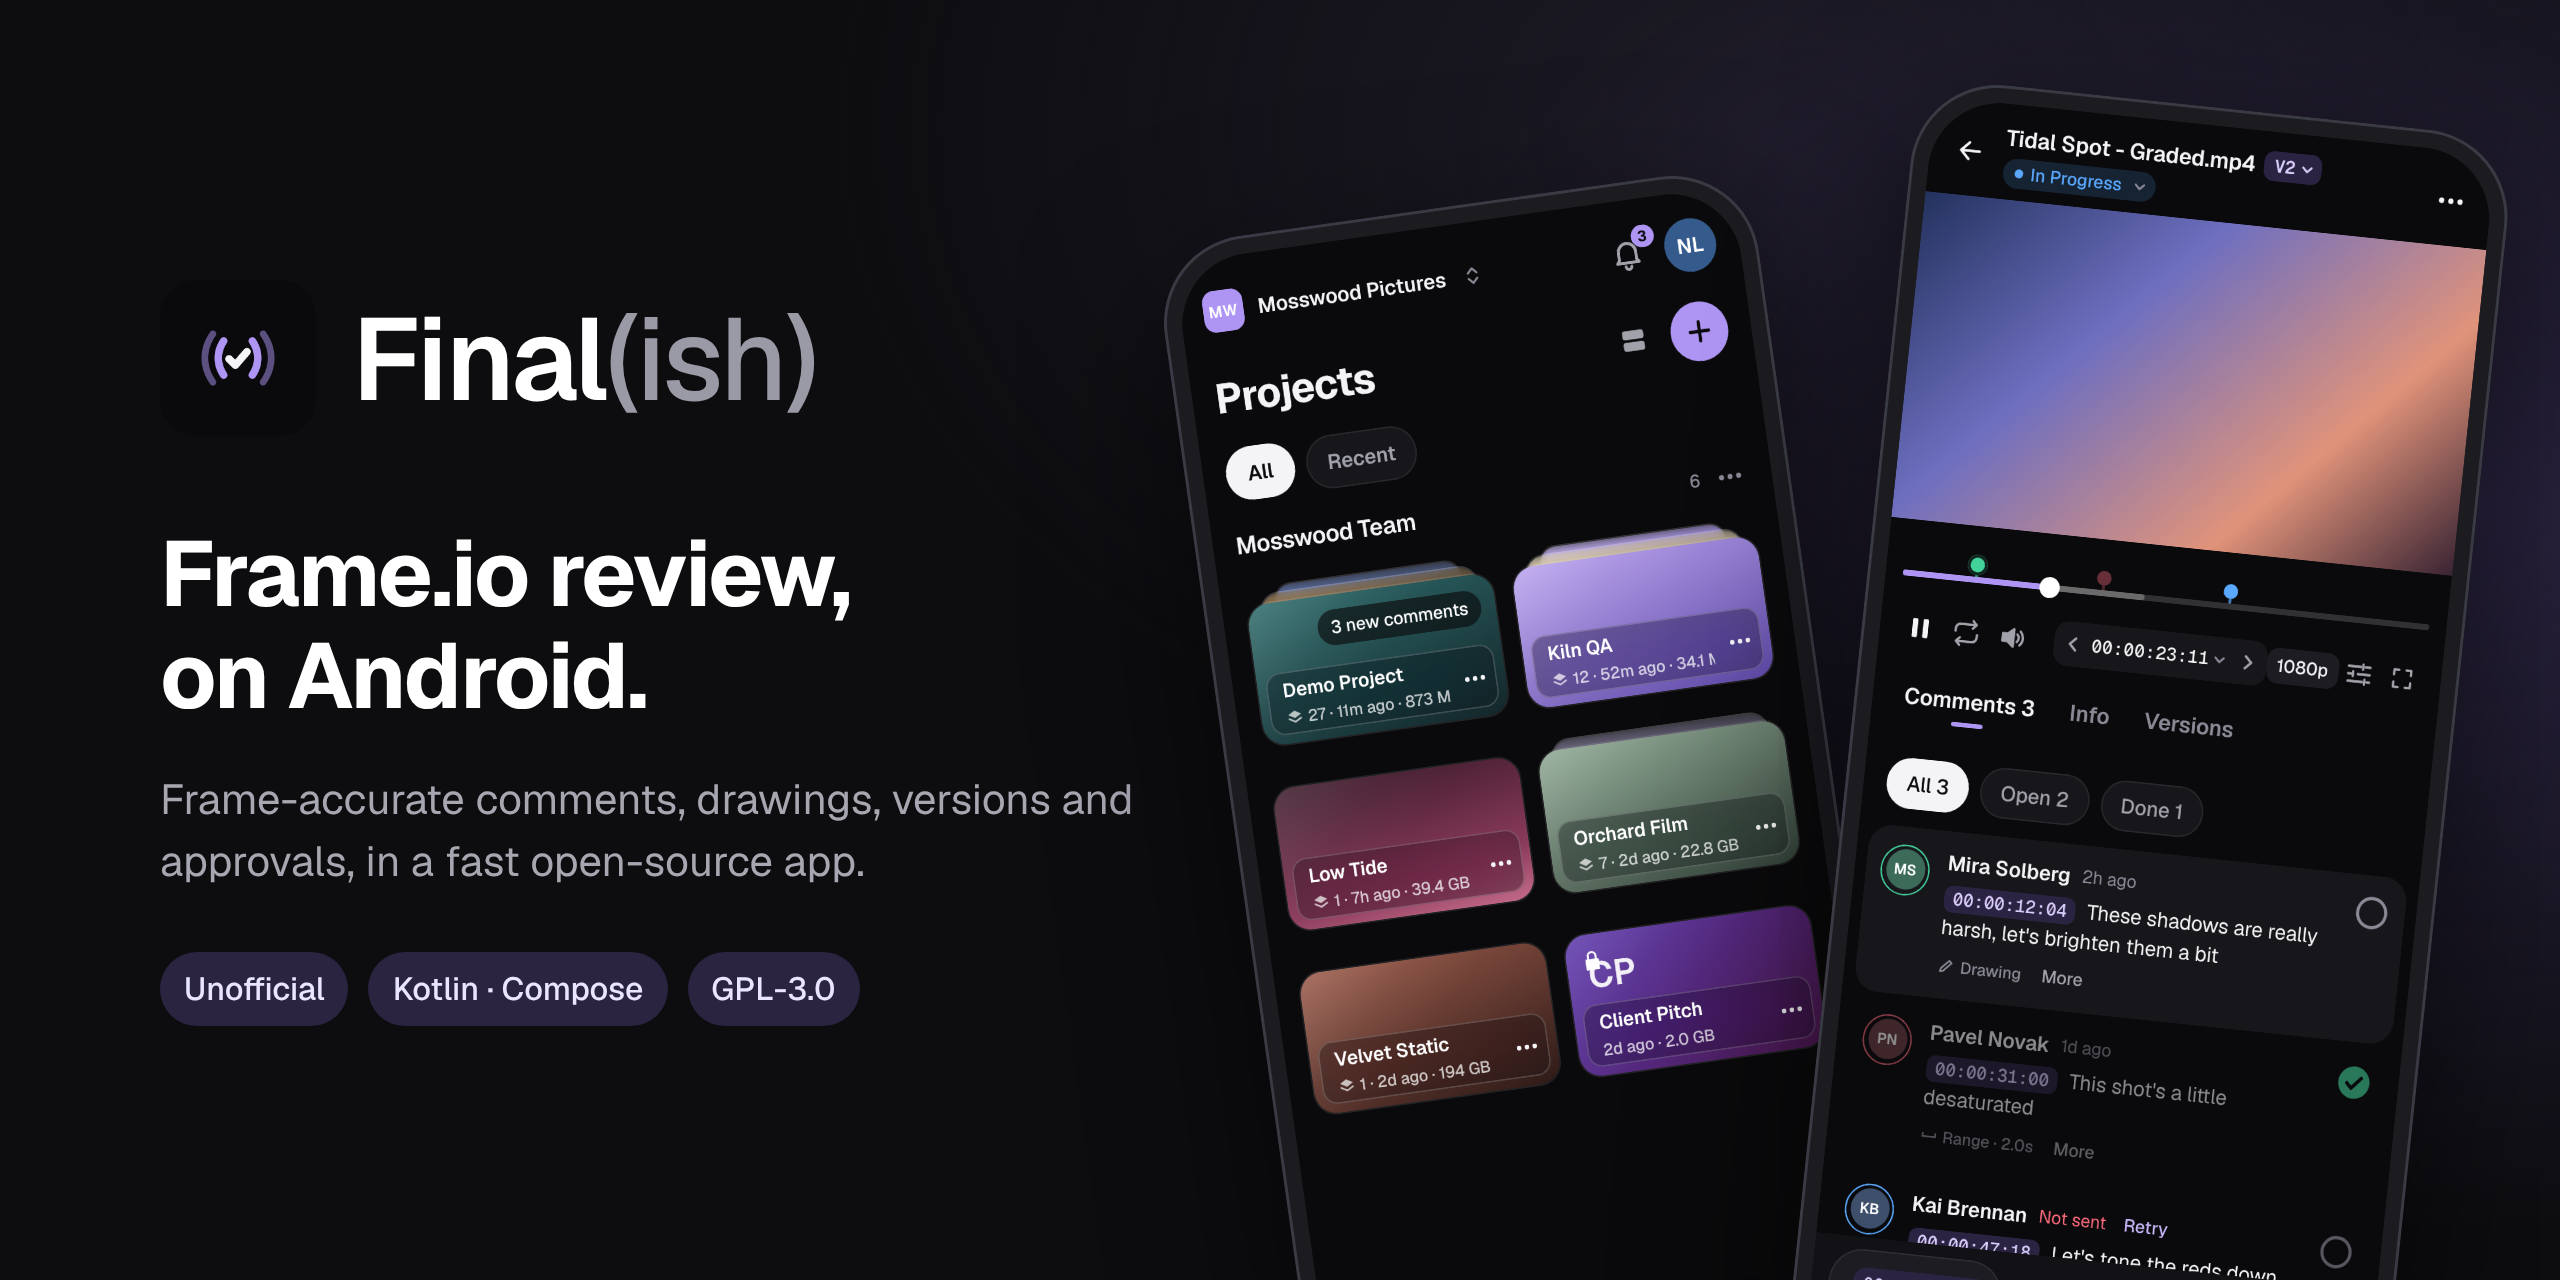
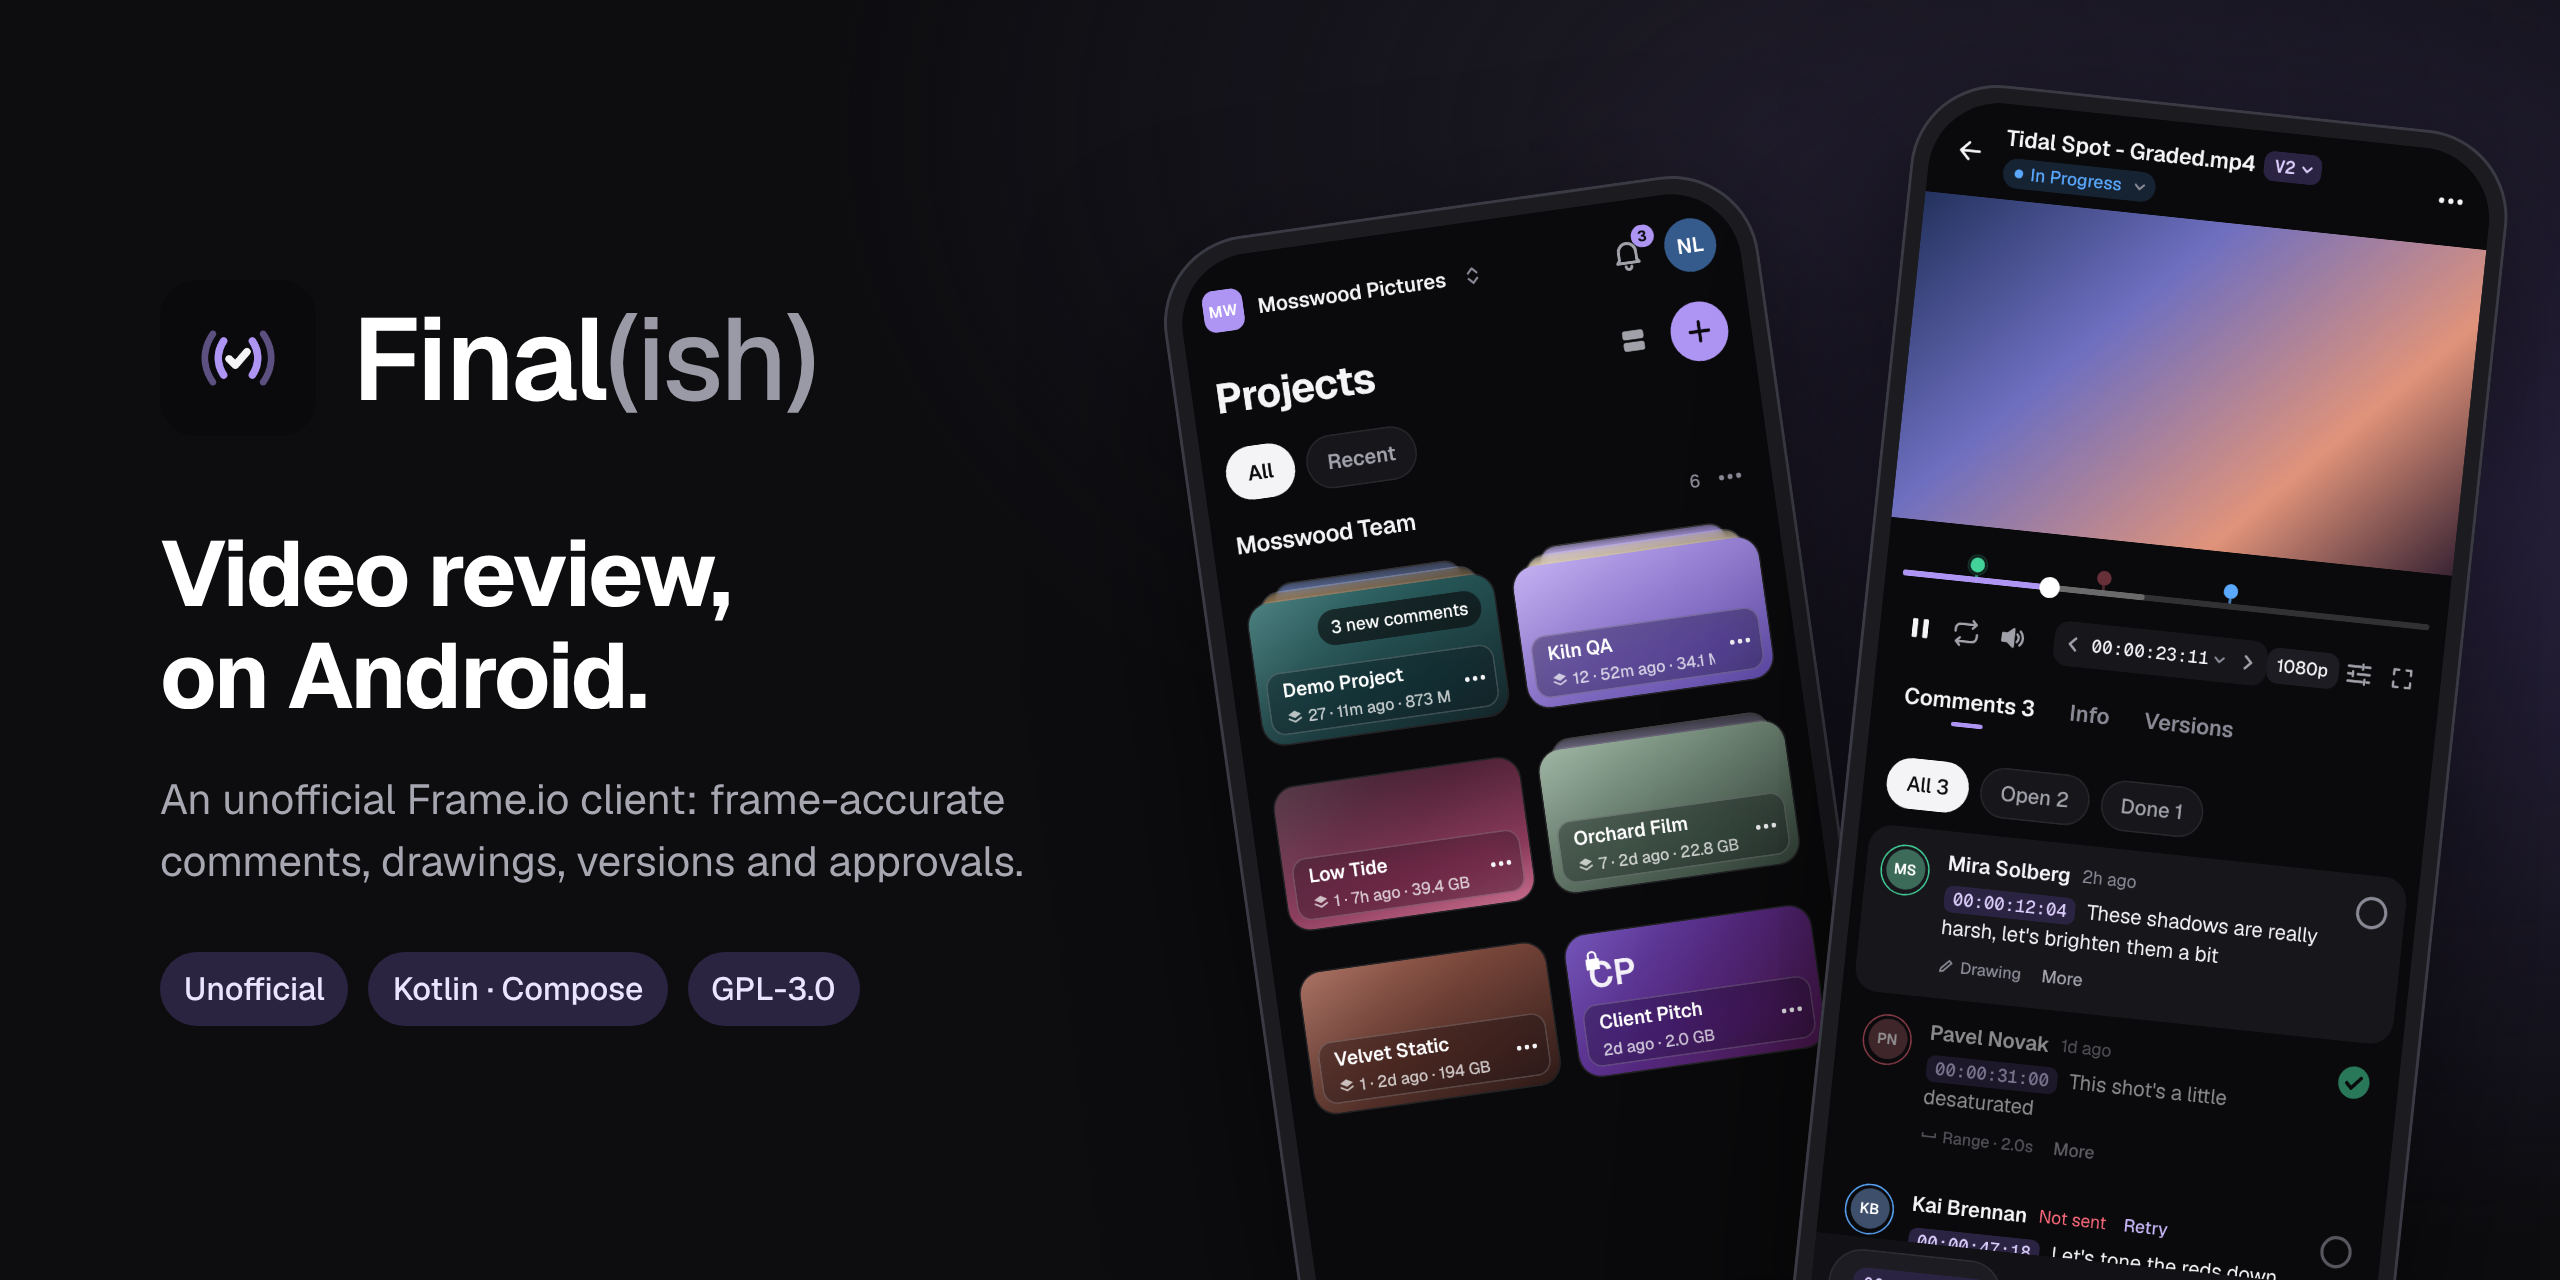
README and hero: say unofficial client, link the v0.1.1 release

Changed region(s): [[0.0625, 0.5938, 0.4375, 0.6875], [0.0625, 0.4062, 0.3438, 0.5]]

diff --git a/README.md b/README.md
@@ -1,5 +1,5 @@
 <p align="center">
-  <img src="docs/images/hero.png" alt="Final(ish): Frame.io app for Android, video review with time-coded comments" width="100%">
+  <img src="docs/images/hero.png" alt="Final(ish): video review on Android, an unofficial Frame.io client" width="100%">
 </p>
 
 <p align="center">
@@ -15,7 +15,7 @@
 
 *Open source. Native. Unofficial Frame.io client.*
 
-**A free, open-source Frame.io app for Android: an unofficial client for [Frame.io](https://frame.io).**
+**A free, open-source, unofficial [Frame.io](https://frame.io) client for Android.**
 Review videos, leave time-coded comments, approve versions and share review links from your Android phone
 or tablet. Built with Kotlin, Jetpack Compose and Media3, designed to feel fast and look great.
 Website: [teovader.github.io/finalish](https://teovader.github.io/finalish/) ·
@@ -95,14 +95,14 @@ The full list, area by area, and what the Frame.io API doesn't allow yet: [docs/
 
 ## Download and build
 
-There are no public builds yet. Signed APKs will be attached to [Releases](https://github.com/TeoVader/finalish/releases),
-followed by Google Play. Until then, build it yourself with JDK 21 and the Android SDK:
+Download the signed APK from [Releases](https://github.com/TeoVader/finalish/releases/latest) (pre-release,
+Android 8.0 or later); Google Play will follow. Or build it yourself with JDK 21 and the Android SDK:
 
 ```bash
 ./gradlew assembleDebug        # app/build/outputs/apk/debug/
 ```
 
-To sign in you need your own free Adobe Developer credential (or use demo mode, no account needed).
+A debug build needs your own free Adobe Developer credential to sign in (or use demo mode, no account needed).
 Setup, release signing, tests and the code layout: [docs/building.md](docs/building.md).
 
 ## How this was built
